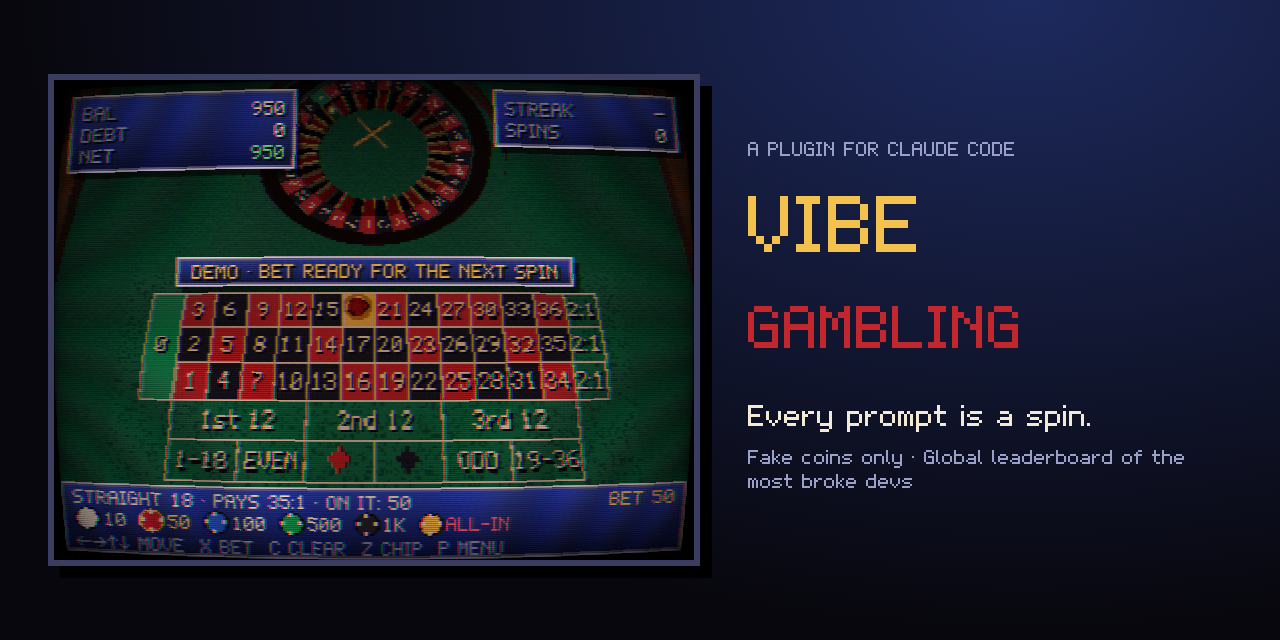
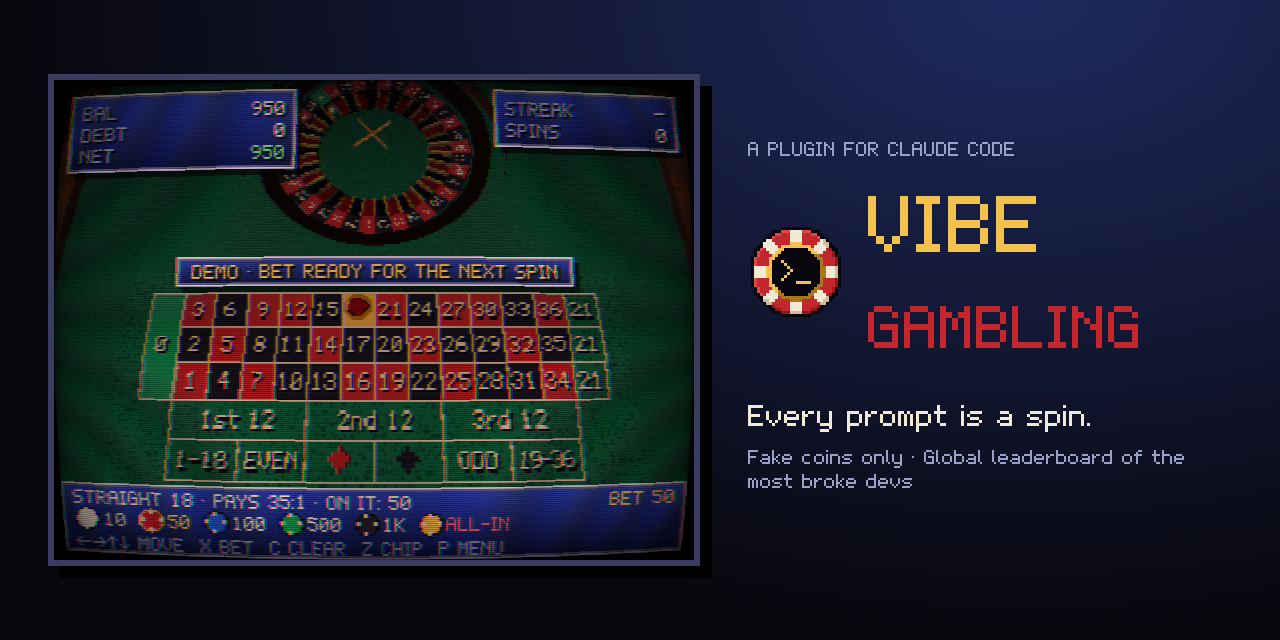
feat(web): añade la marca a la tarjeta Open Graph y al social preview

diff --git a/packages/web/scripts/og/card.html b/packages/web/scripts/og/card.html
@@ -1,6 +1,7 @@
 <!doctype html>
 <!-- SPDX-License-Identifier: AGPL-3.0-or-later -->
-<!-- Plantilla de la imagen Open Graph (1200×630). La rellena og.mjs con una captura de la ventana. -->
+<!-- Plantilla de la imagen Open Graph (1200×630). La rellena og.mjs con una captura de la ventana.
+     La marca es el SVG de docs/brand/ (la fuente de verdad), a escala entera. -->
 <html lang="en">
   <head>
     <meta charset="utf-8" />
@@ -11,7 +12,10 @@
       <img id="shot" alt="" />
       <section>
         <p class="kicker">A PLUGIN FOR CLAUDE CODE</p>
-        <h1>VIBE<br /><span>GAMBLING</span></h1>
+        <div class="lockup">
+          <img class="mark" src="../../../../docs/brand/logo-mark.svg" alt="" />
+          <h1>VIBE<br /><span>GAMBLING</span></h1>
+        </div>
         <p class="tag">Every prompt is a spin.</p>
         <p class="small">Fake coins only · Global leaderboard of the most broke devs</p>
       </section>

diff --git a/packages/web/scripts/og/card.css b/packages/web/scripts/og/card.css
@@ -21,15 +21,28 @@ main {
   padding: 0 48px;
   box-sizing: border-box;
 }
-img {
+#shot {
   width: 640px;
   height: 480px;
   image-rendering: pixelated;
   border: 6px solid #3a3d60;
   box-shadow: 12px 12px 0 #000;
 }
-h1 {
+/* Marca + logotipo como en docs/brand/logo.svg: la ficha de 32 a ×3 a la izquierda del nombre. */
+.lockup {
+  display: flex;
+  gap: 24px;
+  align-items: center;
   margin: 0 0 24px;
+}
+.mark {
+  width: 96px;
+  height: 96px;
+  flex: none;
+  image-rendering: pixelated;
+}
+h1 {
+  margin: 0;
   font-size: 96px;
   line-height: 96px;
   font-weight: normal;
